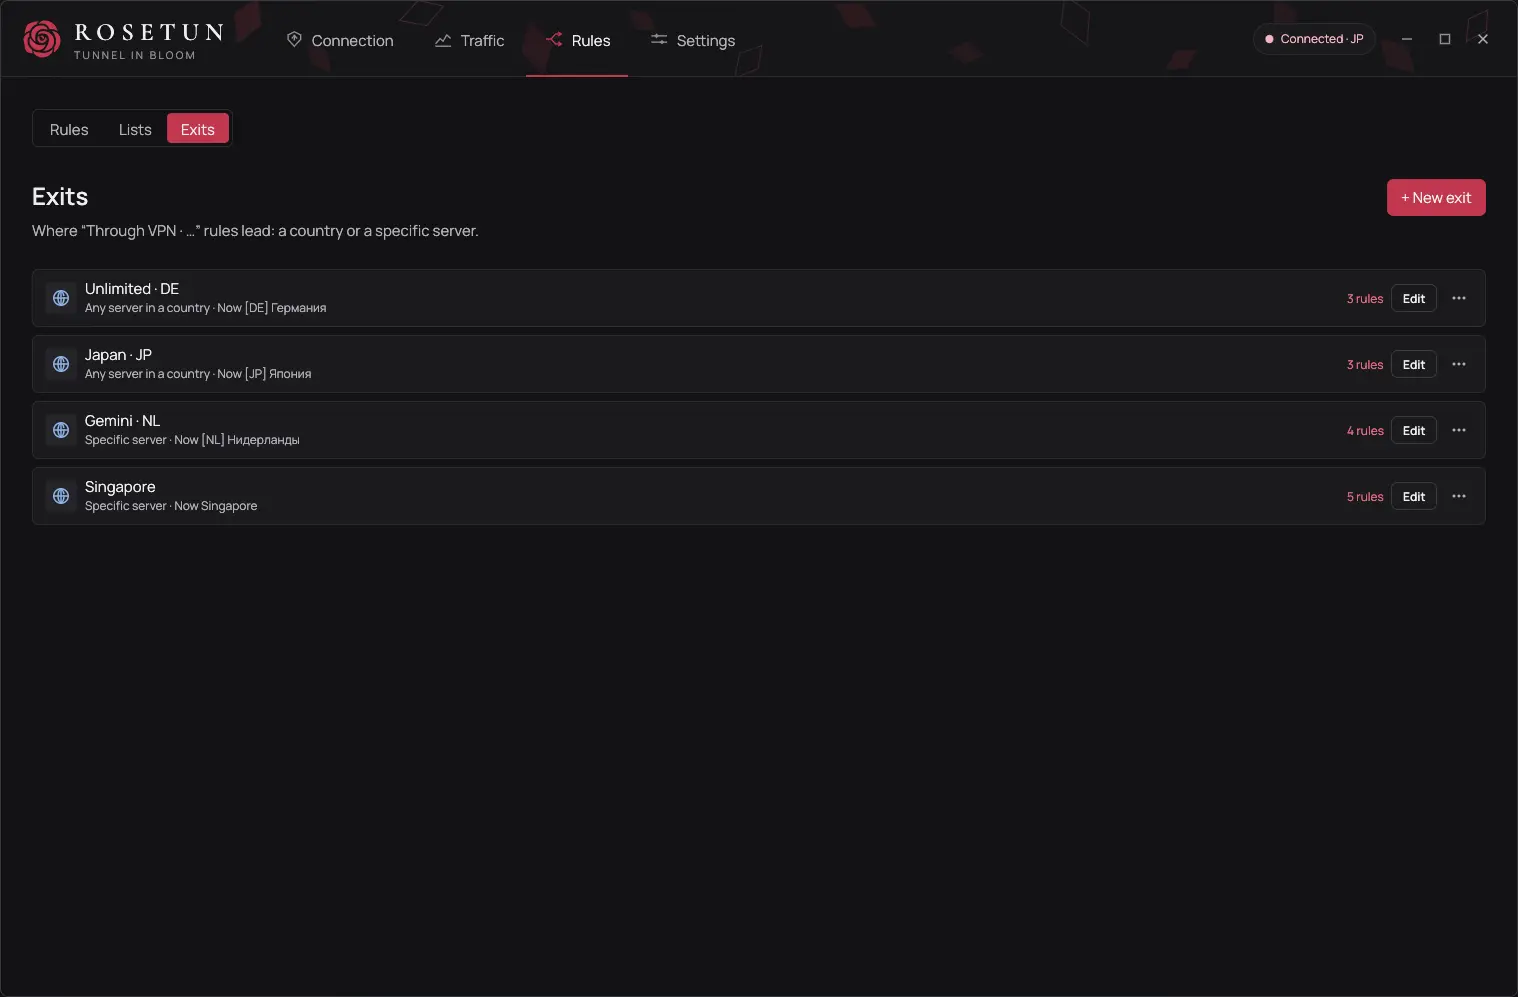
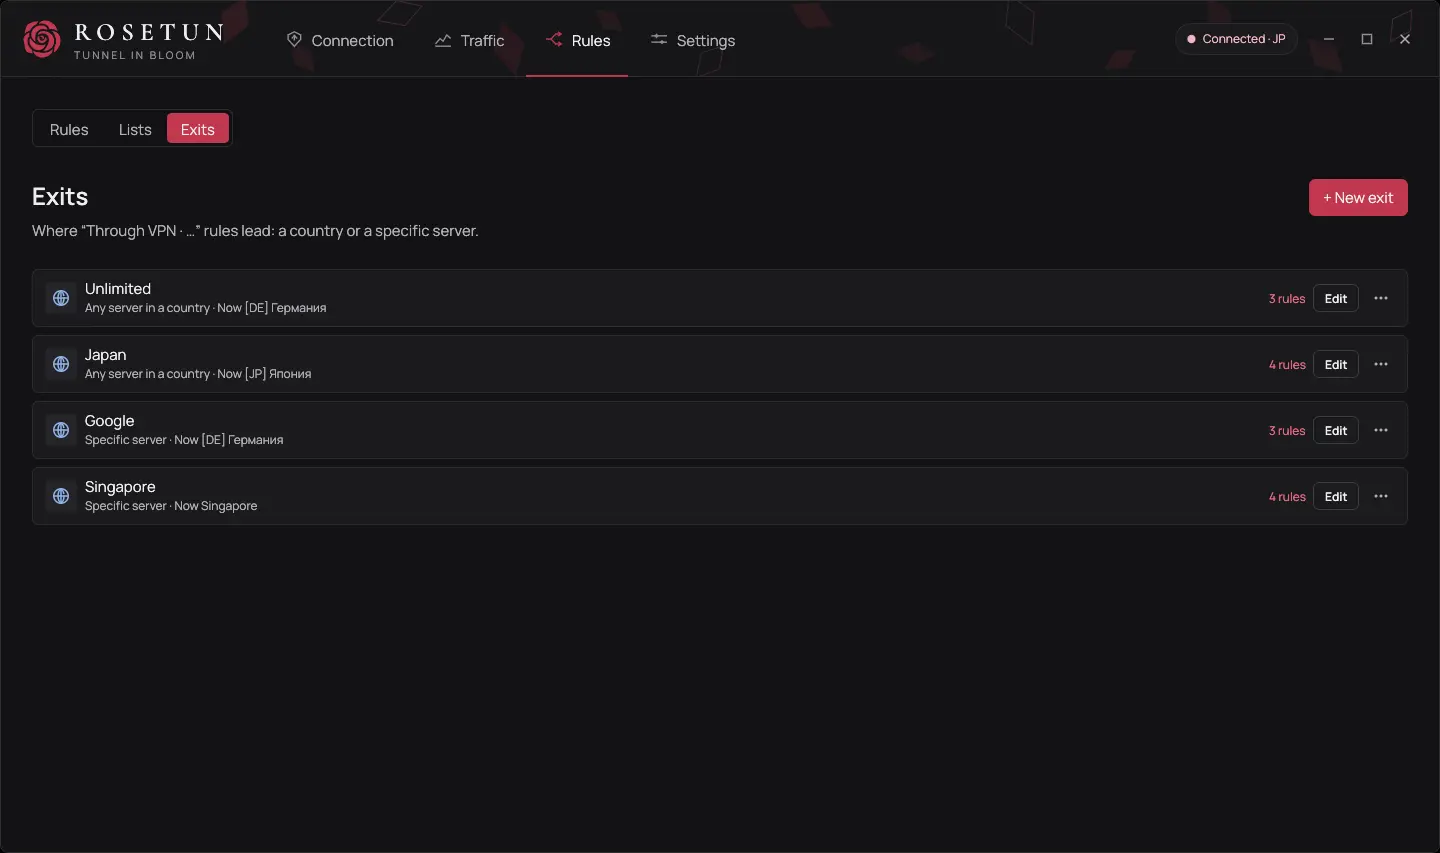
docs(site): Add the Lists screenshot and refresh the others
Replace the Connection, Rules and Exits screenshots and add one of the Lists tab to the home page gallery in both languages, with the list formats it takes. The Rules page names the .srs sing-box rule sets.

diff --git a/site/content/docs/rules.md b/site/content/docs/rules.md
@@ -9,7 +9,7 @@ group = "Настройка"
 
 - **Правила маршрутизации** для программ, сайтов, IP-адресов и подсетей и списков, **Быстрые шаблоны** и действия **Через VPN**, **Напрямую** и **Блокировать**.
 - **Направления:** правило может вести свой трафик через другую страну или конкретный узел, а остальное идёт через сервер с главного экрана. Выбор страны или узла в правиле создаёт направление во вкладке **Направления**; там можно сменить его узел и включить запасной: любой узел той же страны. Если узел направления пропал, его правила блокируют трафик и никогда не идут напрямую.
-- **Списки:** GeoIP и GeoSite (файлы Xray `.dat`, наборы правил sing-box) и свои текстовые списки из файла или по ссылке. Список по ссылке скачивается заново, только если он изменился (`ETag` / `Last-Modified`).
+- **Списки:** GeoIP и GeoSite (файлы Xray `.dat`) и наборы правил sing-box (`.srs`) и свои текстовые списки из файла или по ссылке. Список по ссылке скачивается заново, только если он изменился (`ETag` / `Last-Modified`).
 - **Отмена:** Ctrl+Z отменяет изменения во вкладке «Правила» по шагам, **Вернуть** возвращает правила, применённые к подключению, а Del удаляет выделенное правило без вопроса.
 - **Временные правила:** добавьте правило только до отключения; оно применяется сразу и никогда не сохраняется.
 - **Соединения** на вкладке «Трафик»: при подключении видно, куда программы соединяются прямо сейчас, по программам, каким маршрутом пошло каждое соединение и почему (какое правило, список или правило по умолчанию). Оттуда же можно создать правило или закрыть соединение. Список хранится только в памяти, только для учётной записи, которая подключилась, и очищается при отключении; на диск и в журнал он не попадает.

diff --git a/site/content/docs/rules.en.md b/site/content/docs/rules.en.md
@@ -8,7 +8,7 @@ group = "Setup"
 
 - **Routing rules** for programs, websites, IP addresses and subnets, and lists, with **Quick templates** and actions **Through VPN**, **Direct** and **Block**.
 - **Exits:** a rule can send its traffic through another country or a specific server while the rest goes through the server on the main screen. Picking a country or a server in the rule creates an exit on the **Exits** tab, where you can change its server and turn on a fallback to any server of the same country. If an exit's server disappears, its rules block traffic; they never go direct.
-- **Lists:** GeoIP and GeoSite (Xray `.dat` files, sing-box rule sets) and your own text lists, from a file or a link. A list from a link is downloaded again only when it has changed (`ETag` / `Last-Modified`).
+- **Lists:** GeoIP and GeoSite (Xray `.dat` files) and sing-box rule sets (`.srs`) and your own text lists, from a file or a link. A list from a link is downloaded again only when it has changed (`ETag` / `Last-Modified`).
 - **Undo:** Ctrl+Z steps back through your changes on the Rules tab, **Revert** returns to the rules applied to the connection, and Del removes the selected rule without asking.
 - **Temporary rules:** add a rule only until disconnect; it applies at once and is never saved.
 - **Connections** on the Traffic tab: while connected, what your programs connect to right now, grouped by program, with the route each connection took and why (which rule, list or the default). Create a rule or close a connection from there. The list is kept only in memory for the account that connected and is cleared on disconnect; it is never written to disk or to the log.

diff --git a/site/content/_index.md b/site/content/_index.md
@@ -68,6 +68,11 @@ alt = 'Rosetun: правила маршрутизации'
 caption = 'Правила'
 
 [[extra.screens]]
+image = 'lists'
+alt = 'Rosetun: списки'
+caption = 'Списки: SRS, Xray geosite и geoip'
+
+[[extra.screens]]
 image = 'exits'
 alt = 'Rosetun: направления'
 caption = 'Направления'

diff --git a/site/content/_index.en.md b/site/content/_index.en.md
@@ -66,6 +66,11 @@ alt = 'Rosetun: Routing rules'
 caption = 'Routing Rules'
 
 [[extra.screens]]
+image = 'lists'
+alt = 'Rosetun: Lists'
+caption = 'Lists: SRS, Xray geosite and geoip'
+
+[[extra.screens]]
 image = 'exits'
 alt = 'Rosetun: Exit nodes'
 caption = 'Exit Nodes'
